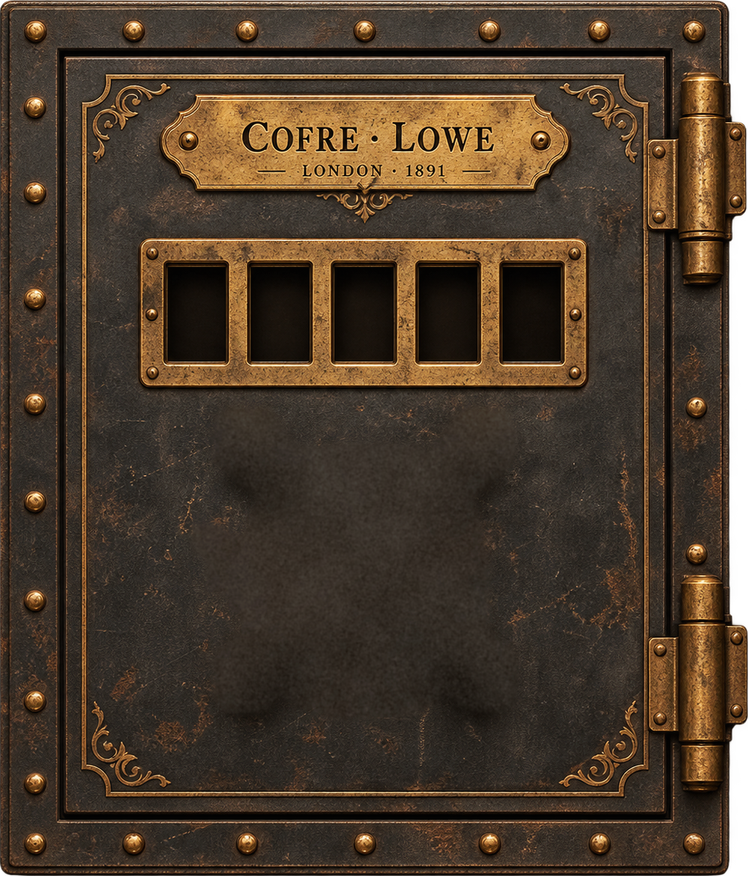
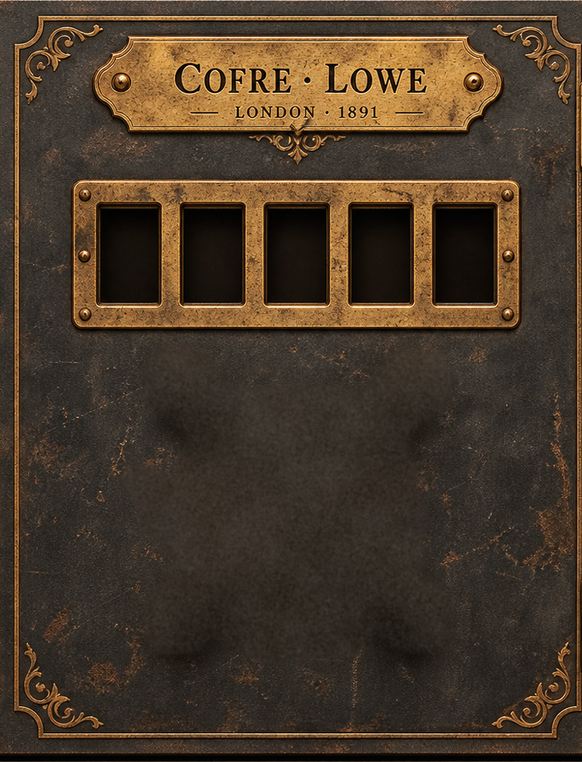
Add files via upload

diff --git a/case01/play/index.html b/case01/play/index.html
@@ -47,34 +47,38 @@ button:focus-visible,input:focus-visible,select:focus-visible,[tabindex]:focus-v
 .center{text-align:center}
 .zero{margin-top:8px;background:none;border:0;color:var(--mute);font:500 11px Inter,sans-serif;letter-spacing:.2em;text-transform:uppercase;cursor:pointer;text-decoration:underline}
 
-/* envelopes pretos */
-.env{position:relative;width:min(100%,250px);aspect-ratio:1.5;margin:0 auto;background:linear-gradient(160deg,#242119,#0a0908);border:1px solid #3d3322;box-shadow:0 10px 24px rgba(0,0,0,.65),inset 0 0 0 4px #0d0b09,inset 0 0 0 5px rgba(196,162,90,.28)}
-.env:before{content:"";position:absolute;inset:0;background:linear-gradient(180deg,#2d2920,#15120e);clip-path:polygon(0 0,100% 0,50% 60%);box-shadow:0 2px 0 rgba(196,162,90,.35)}
-.env .sl{position:absolute;left:50%;top:60%;width:50px;height:50px;transform:translate(-50%,-50%);border-radius:50%;background:radial-gradient(circle at 35% 30%,#f0dca2,#a98a46 60%,#5a4520);display:flex;align-items:center;justify-content:center;font:700 26px 'Old Standard TT',serif;color:#2a2010;box-shadow:0 3px 6px rgba(0,0,0,.6)}
-.env .cs{position:absolute;left:0;right:0;bottom:12%;text-align:center;font:500 10px Inter,sans-serif;letter-spacing:.34em;color:#8a7440}
+/* envelopes pretos com o rótulo do caso */
+.env{position:relative;width:min(100%,260px);aspect-ratio:1181/827;margin:0 auto;background:linear-gradient(160deg,#1c1a16,#080706);border:1px solid #2c2618;box-shadow:0 10px 24px rgba(0,0,0,.65)}
+.env img{position:absolute;inset:0;width:100%;height:100%;display:block}
 .envslot{margin-top:18px;display:flex;justify-content:center}
 .envslot .env{animation:slideup 1.1s cubic-bezier(.2,.8,.2,1) both}
 @keyframes slideup{from{opacity:0;transform:translateY(60px) scale(.9)}to{opacity:1;transform:none}}
 
 /* cofre */
-.safe{margin:18px auto 0;max-width:400px;aspect-ratio:998/1168;perspective:1400px;position:relative}
-.inside{position:absolute;inset:3% 4%;background:radial-gradient(ellipse at 50% 40%,#2a2218,#050403 75%);border:6px solid #3a2f1a;display:flex;align-items:center;justify-content:center}
-.inside .env{width:62%}
-.door{position:absolute;inset:0;container-type:inline-size;transform-origin:right center;transition:transform 1.6s cubic-bezier(.65,.02,.25,1);background:url(cofre_porta.png) 0 0/100% 100% no-repeat;filter:drop-shadow(0 14px 22px rgba(0,0,0,.6))}
-.door.open{transform:rotateY(104deg)}
+.safe{margin:18px auto 0;max-width:400px;aspect-ratio:998/1168;perspective:1400px;position:relative;background:url(cofre_corpo.png) 0 0/100% 100% no-repeat;filter:drop-shadow(0 14px 22px rgba(0,0,0,.6))}
+.inside{z-index:0;position:absolute;left:9.018%;top:6.678%;width:77.76%;height:86.99%;overflow:hidden;background:radial-gradient(ellipse at 50% 40%,#2e251a,#060504 78%);box-shadow:inset 0 0 38px #000,inset 0 0 0 2px #000}
+.pile{position:absolute;left:50%;top:54%;width:84%;height:62%;transform:translate(-50%,-50%)}
+.pp{position:absolute;left:8%;top:10%;width:80%;height:78%;background:#e4d6b0;border:1px solid #9c8a5e;box-shadow:0 3px 7px rgba(0,0,0,.65);background-image:repeating-linear-gradient(180deg,transparent 0 11px,rgba(80,60,30,.28) 11px 12px)}
+.pp.p1{transform:rotate(-7deg);background-color:#d9c99f}
+.pp.p2{transform:rotate(5deg);left:12%;top:6%;background-color:#e9dcb8}
+.pp.p3{transform:rotate(-2deg);left:6%;top:14%;width:74%;background-color:#dfd0a8}
+.nb{position:absolute;right:2%;bottom:6%;width:46%;height:56%;background:linear-gradient(135deg,#4a2c18,#2b180d);border:1px solid #1a0e06;border-radius:3px 6px 6px 3px;transform:rotate(9deg);box-shadow:0 4px 9px rgba(0,0,0,.7);display:flex;align-items:center;justify-content:center;font:500 7px Inter,sans-serif;letter-spacing:.2em;color:#c4a25a;text-align:center}
+.nb:before{content:"";position:absolute;left:10%;top:0;bottom:0;width:6%;background:#1d1008}
+.nb span{border:1px solid rgba(196,162,90,.55);padding:6px 4px;margin-left:10%}
+.inside .env{position:absolute;left:50%;top:48%;width:74%;transform:translate(-50%,-50%) rotate(-3deg);z-index:2}
+.door{z-index:1;position:absolute;left:9.018%;top:6.678%;width:77.76%;height:86.99%;container-type:inline-size;transform-origin:right center;transition:transform 1.7s cubic-bezier(.65,.02,.25,1);background:url(cofre_porta.png) 0 0/100% 100% no-repeat;box-shadow:0 0 18px rgba(0,0,0,.5)}
+.door.open{transform:rotateY(78deg)}
 .wheels{position:absolute;inset:0;pointer-events:none;z-index:3}
-.wh{position:absolute;top:25.7%;width:8.4%;height:25.7%;outline-offset:3px}
-.wh button{position:absolute;left:8%;right:8%;height:10.5%;border:1px solid #2a2010;background:linear-gradient(180deg,#9a7e40,#5a4720);color:#f0dca2;cursor:pointer;font-size:2.4cqw;line-height:1;border-radius:2px;pointer-events:auto;padding:0;box-shadow:inset 0 1px 0 rgba(255,240,200,.35),0 1px 2px #000}
+.wh{position:absolute;top:21.85%;width:10.82%;height:29.53%;outline-offset:3px}
+.wh button{position:absolute;left:8%;right:8%;height:10.5%;border:1px solid #2a2010;background:linear-gradient(180deg,#9a7e40,#5a4720);color:#f0dca2;cursor:pointer;font-size:3.1cqw;line-height:1;border-radius:2px;pointer-events:auto;padding:0;box-shadow:inset 0 1px 0 rgba(255,240,200,.35),0 1px 2px #000}
 .wh button:first-child{top:6.5%}.wh button:last-child{top:62.5%}
 .wh button:active{filter:brightness(1.3)}
-.wh .win{position:absolute;left:0;right:0;top:17.7%;height:43.3%;display:flex;align-items:center;justify-content:center;font:700 8.4cqw 'Old Standard TT',Georgia,serif;color:#efe3c8;text-shadow:0 0 6px rgba(230,207,152,.45);background:rgba(5,4,3,.55);pointer-events:auto}
-.handle{z-index:1;position:absolute;left:48.7%;top:72.5%;width:50%;aspect-ratio:1;transform:translate(-50%,-50%);border:0;background:none;cursor:pointer;padding:0;transition:transform 1.4s cubic-bezier(.45,0,.25,1)}
+.wh .win{position:absolute;left:0;right:0;top:17.7%;height:43.3%;display:flex;align-items:center;justify-content:center;font:700 10.8cqw 'Old Standard TT',Georgia,serif;color:#efe3c8;text-shadow:0 0 6px rgba(230,207,152,.45);background:rgba(5,4,3,.55);pointer-events:auto}
+.handle{z-index:1;position:absolute;left:51.03%;top:75.69%;width:64.3%;aspect-ratio:1;transform:translate(-50%,-50%);border:0;background:none;cursor:pointer;padding:0;transition:transform 1.9s cubic-bezier(.45,0,.25,1)}
 .handle img{width:100%;height:100%;display:block;pointer-events:none}
-.handle:before{content:"";position:absolute;left:19%;top:19%;width:62%;height:62%;border-radius:50%}
-.handle.turn{transform:translate(-50%,-50%) rotate(-360deg)}
+.handle.turn{transform:translate(-50%,-50%) rotate(-540deg)}
 .handle.shake{animation:sk .45s}
 @keyframes sk{0%,100%{transform:translate(-50%,-50%) rotate(0)}20%{transform:translate(-50%,-50%) rotate(-14deg)}45%{transform:translate(-50%,-50%) rotate(11deg)}70%{transform:translate(-50%,-50%) rotate(-6deg)}}
-.hcap{position:absolute;left:0;right:0;top:95%;text-align:center;font:500 2.4cqw Inter,sans-serif;letter-spacing:.3em;color:#a89878;text-transform:uppercase;pointer-events:none}
 
 /* cadeado */
 .lockwrap{display:flex;justify-content:center;margin-top:12px}
@@ -153,8 +157,7 @@ footer a{color:var(--gold-hi)}
 <section class="step" id="s1"><h2><span class="n">I.</span><span>O cofre</span><span class="ck">✓ rever</span></h2><div class="body">
 <div class="safe" id="safe"><div class="inside" id="inside"></div>
 <div class="door" id="door"><div class="wheels" id="wheels"></div>
-<button class="handle" id="handle" aria-label="Girar a maçaneta do cofre"><img src="cofre_manopla.png" alt=""></button>
-<div class="hcap" id="hcap">girar a maçaneta</div></div></div>
+<button class="handle" id="handle" aria-label="Girar a maçaneta do cofre"><img src="cofre_manopla.png" alt=""></button></div></div>
 <div class="center"><button type="button" class="zero hide" id="closeBtn">Fechar o cofre</button></div>
 <div id="o1"></div><div class="center" id="n1"></div></div></section>
 
@@ -251,7 +254,7 @@ function nextBtn(n,hideSel){/* some controles, mostra Próximo */
  b.addEventListener('click',function(){box.innerHTML='';markDone(n);unlock(n+1);var t=$('s'+(n+1));setTimeout(function(){t.scrollIntoView({behavior:'smooth',block:'start'})},120)});box.appendChild(b)}
 function busy(b,on){b.disabled=on;if(b.dataset.l===undefined)b.dataset.l=b.textContent;b.textContent=on?'Enviando…':b.dataset.l}
 var ZERO=['NENHUM','UM','DOIS','TRÊS','QUATRO'];
-function env(letter,sub){var e=document.createElement('div');e.className='env';e.innerHTML='<div class="sl"></div><div class="cs">CASO Nº 01</div>';e.querySelector('.sl').textContent=letter;e.setAttribute('role','img');e.setAttribute('aria-label','Envelope '+letter);return e}
+function env(letter){var e=document.createElement('div');e.className='env';var i=document.createElement('img');i.src='rotulo_'+letter+'.png';i.alt='Envelope '+letter+'. Não abra até o momento indicado.';e.appendChild(i);return e}
 
 /* relógio de bolso */
 function Clock(host){
@@ -319,17 +322,17 @@ function cand(m){return [m,(m+1)%720,(m+719)%720]}
 var wv=[1,1,1,1,1],MAXN=18,wh=$('wheels'),wins=[];
 function wset(i,v){wv[i]=((v-1+MAXN)%MAXN)+1;wins[i].textContent=wv[i];wins[i].parentNode.setAttribute('aria-valuenow',wv[i])}
 for(var wi=0;wi<5;wi++)(function(i){
- var c=document.createElement('div');c.className='wh';c.style.left=((221+i*111.9)/998*100)+'%';c.tabIndex=0;c.setAttribute('role','spinbutton');c.setAttribute('aria-label','Número '+(i+1));c.setAttribute('aria-valuemin','1');c.setAttribute('aria-valuemax',MAXN);
+ var c=document.createElement('div');c.className='wh';c.style.left=((131+i*111.9)/776*100)+'%';c.tabIndex=0;c.setAttribute('role','spinbutton');c.setAttribute('aria-label','Número '+(i+1));c.setAttribute('aria-valuemin','1');c.setAttribute('aria-valuemax',MAXN);
  var u=document.createElement('button');u.type='button';u.textContent='▲';u.setAttribute('aria-label','aumentar');var w=document.createElement('div');w.className='win';var dn=document.createElement('button');dn.type='button';dn.textContent='▼';dn.setAttribute('aria-label','diminuir');
  c.appendChild(u);c.appendChild(w);c.appendChild(dn);wh.appendChild(c);wins.push(w);
  u.addEventListener('click',function(){wset(i,wv[i]+1)});dn.addEventListener('click',function(){wset(i,wv[i]-1)});
  c.addEventListener('keydown',function(e){if(e.key==='ArrowUp'){wset(i,wv[i]+1);e.preventDefault()}else if(e.key==='ArrowDown'){wset(i,wv[i]-1);e.preventDefault()}});
  w.addEventListener('wheel',function(e){wset(i,wv[i]+(e.deltaY<0?1:-1));e.preventDefault()},{passive:false});
  wset(i,1)})(wi);
-$('inside').appendChild(env('A'));
+var pl=document.createElement('div');pl.className='pile';pl.innerHTML='<div class="pp p1"></div><div class="pp p2"></div><div class="pp p3"></div><div class="nb"><span>DR. ASHBY<br>ANOTAÇÕES</span></div>';$('inside').appendChild(pl);$('inside').appendChild(env('A'));
 
 /* etapas */
-function openSafe(instant){var h=$('handle'),d=$('door');h.classList.add('turn');$('closeBtn').classList.remove('hide');if(instant){d.style.transition='none';d.classList.add('open');setTimeout(function(){d.style.transition=''},50)}else setTimeout(function(){d.classList.add('open')},1300)}
+function openSafe(instant){var h=$('handle'),d=$('door');h.classList.add('turn');$('closeBtn').classList.remove('hide');if(instant){d.style.transition='none';d.classList.add('open');setTimeout(function(){d.style.transition=''},50)}else setTimeout(function(){d.classList.add('open')},2000)}
 function shake(){var h=$('handle');h.classList.remove('shake');void h.offsetWidth;h.classList.add('shake')}
 async function stage1(nums,silent){
  if(new Set(nums).size<5){if(!silent){shake();show('o1',snt('NÃO REPITA NÚMEROS STOP O COFRE TEM CINCO DIFERENTES STOP LOWE',true))}return false}
@@ -340,7 +343,7 @@ async function stage1(nums,silent){
  var hs=await Promise.all(nums.map(function(n){return sha('n:'+n)})),c=hs.filter(function(h){return D.cofre_h.indexOf(h)>=0}).length;
  if(!silent){shake();show('o1',snt(c===0?'O COFRE NÃO ABRIU STOP NENHUM DOS CINCO NÚMEROS CONFERE STOP LOWE':'O COFRE NÃO ABRIU STOP SE EU PUDESSE CONFERIR O QUE ESTÁ ERRADO STOP POR ENQUANTO POSSO DIZER QUE '+ZERO[c]+' DOS CINCO NÚMEROS ESTÃO CERTOS STOP LOWE',true))}
  return false}
-function closeSafe(){var h=$('handle'),d=$('door');d.classList.remove('open');$('closeBtn').classList.add('hide');setTimeout(function(){h.classList.remove('turn')},1300)}
+function closeSafe(){var h=$('handle'),d=$('door');d.classList.remove('open');$('closeBtn').classList.add('hide');setTimeout(function(){h.classList.remove('turn')},1500)}
 function norm(s){return s.normalize('NFD').replace(/[̀-ͯ]/g,'').toUpperCase().replace(/[^A-Z]/g,'')}
 async function stage2(w,silent){
  var t=await dec('palavra:'+norm(w),D.palavra);
